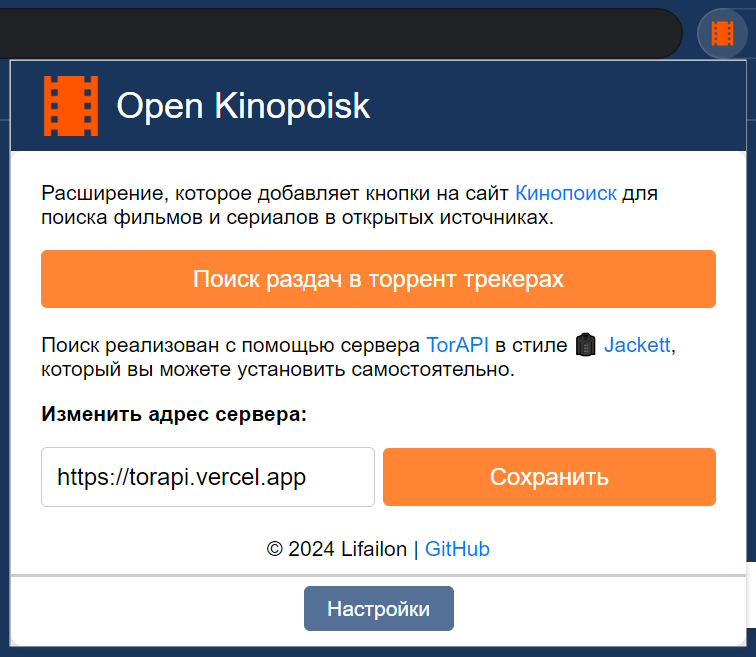
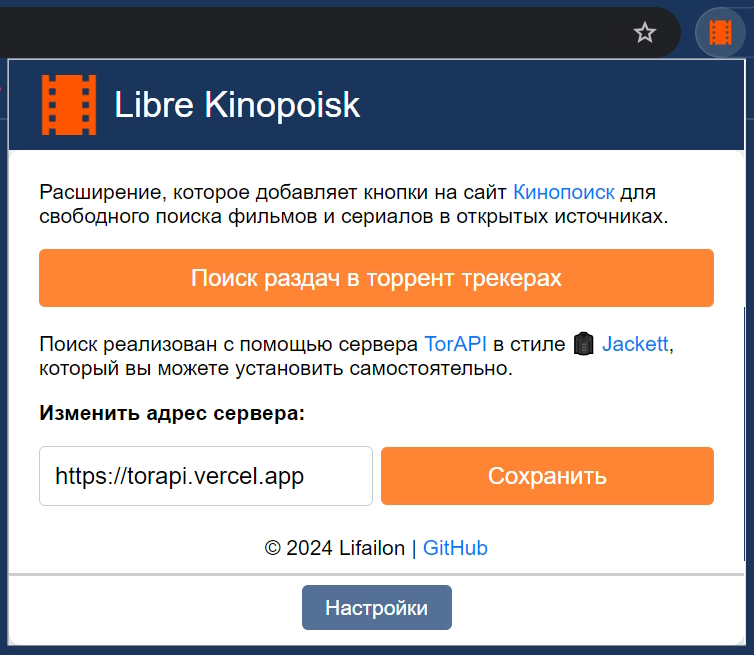
update name to libre

diff --git a/ChromeExtension/popup.html b/ChromeExtension/popup.html
@@ -3,7 +3,7 @@
 <head>
     <meta charset="UTF-8">
     <meta name="viewport" content="width=device-width, initial-scale=1.0">
-    <title>Open Kinopoisk</title>
+    <title>Libre Kinopoisk</title>
     <style>
         body {
             font-family: Arial, sans-serif;
@@ -201,10 +201,10 @@
 <body>
     <header>
         <div class="logo"></div>
-        <div class="title">Open Kinopoisk</div>
+        <div class="title">Libre Kinopoisk</div>
     </header>
     <div class="container" id="homeState">
-        <b>Расширение, которое добавляет кнопки на сайт <a href="https://kinopoisk.ru">Кинопоиск</a> для поиска фильмов и сериалов в открытых источниках.</b>
+        <b>Расширение, которое добавляет кнопки на сайт <a href="https://kinopoisk.ru">Кинопоиск</a> для свободного поиска фильмов и сериалов в открытых источниках.</b>
         <br>
         <br>
         <button id="showTorrentTableButton">Поиск раздач в торрент трекерах</button>

diff --git a/README.md b/README.md
@@ -3,10 +3,10 @@
 </p>
 
 <h2 align="center">
-     🎞 Open Kinopoisk Chrome Extension 🎞
+     🎞 Libre Kinopoisk Chrome Extension 🎞
 </h2>
 
-Расширение, которое добавляет кнопки на сайт [Кинопоиск](http://kinopoisk.ru) для поиска фильмов и сериалов в открытых источниках ✖🏴☠.
+Расширение Google Chrome, которое добавляет кнопки на сайт [Кинопоиск](http://kinopoisk.ru) для свободного поиска фильмов и сериалов в открытых источниках.
 
 Проект вдохновлен расширением 🍿 [YoK](https://github.com/mrzlab630/chrome-extension-YoK) для поиска плееров и интерфейсом 🧥 [Jackett](https://github.com/Jackett/Jackett) для централизованного поиска раздач в торрент трекерах.
 
@@ -29,24 +29,26 @@
     <img src="image/kinobox-player.jpg" width="400"/></a> <img src="image/torapi-search.jpg" width="400"></a>
 </h1>
 
+---
+
 ### 🚀 Установка
 
-- [Скачайте расширение](https://github.com/Lifailon/OpenKinopoisk/archive/refs/heads/rsa.zip) из GitHub репозитория и распакуйте zip-архив.
+- [Скачайте расширение](https://github.com/Lifailon/LibreKinopoisk/archive/refs/heads/rsa.zip) из GitHub репозитория и распакуйте zip-архив.
 - Откройте страницу с расширениями Google Chrome: `chrome://extensions`.
 - Включите **режим разработчика** в правом верхнем углу.
 - **Загрузите распакованное расширение** и выберите директорию `ChromeExtension` из архива.
 
 ![Image alt](image/add-extension.jpg)
 
-> Если кнопки отображаются на странице и сразу пропадают, отключите блокировщик рекламы в интерфейсе расширения (например, [Adblock](https://adblockplus.org)), находясь на странице [Кинопоиска](www.kinopoisk.ru) (может потребоваться перезагрузка расширения OpenKinopoisk).
+> Если кнопки отображаются на странице и сразу пропадают, отключите блокировщик рекламы в интерфейсе расширения (например, [Adblock](https://adblockplus.org)), находясь на странице [Кинопоиска](www.kinopoisk.ru) (может потребоваться перезагрузка расширения LibreKinopoisk).
 
-- Вы можете вызывать интерфейс поиска раздач в торрент трекерах находясь на любой странице браузера, а также изменить адрес сервера **TorAPI** и настроить отображение кнопок в интерфейсе расширения:
+- Вы можете вызывать интерфейс поиска раздач в торрент трекерах находясь на любой странице браузера, а также изменить адрес сервера и настроить отображение кнопок в **интерфейсе расширения**:
 
 <h1 align="center">
     <img src="image/popup-interface.jpg" width="400"/></a> <img src="image/popup-settings.jpg" width="400"></a>
 </h1>
 
-Что бы запустить свой API сервер в Docker контейнере или развернуть его на **Vercel**, воспользуйтесь инструкций в репозитории на [GitHub](https://github.com/Lifailon/TorAPI).
+Что бы запустить свой **TorAPI** сервер в Docker контейнере или развернуть его на Vercel, воспользуйтесь инструкций в репозитории на [GitHub](https://github.com/Lifailon/TorAPI).
 
 ---
 
